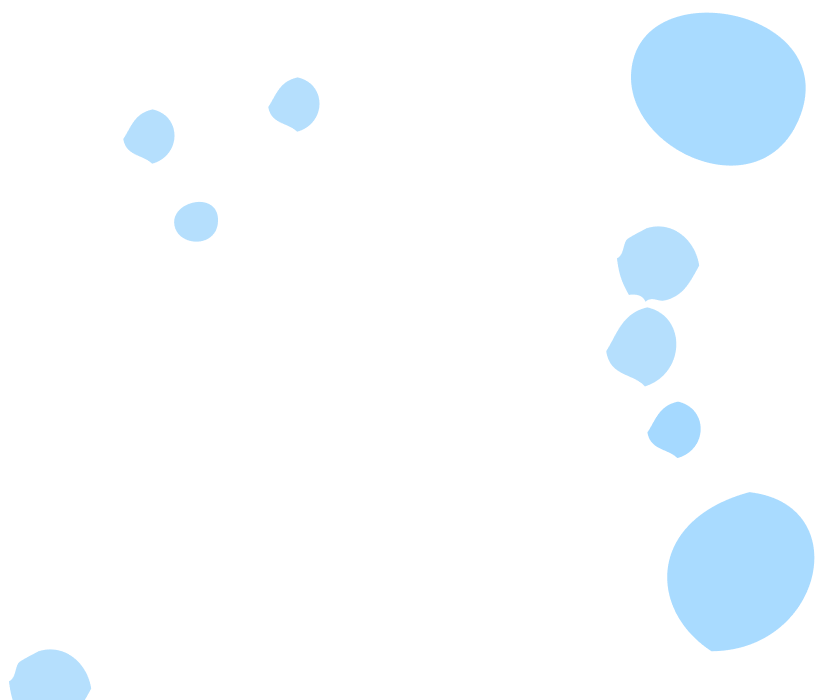
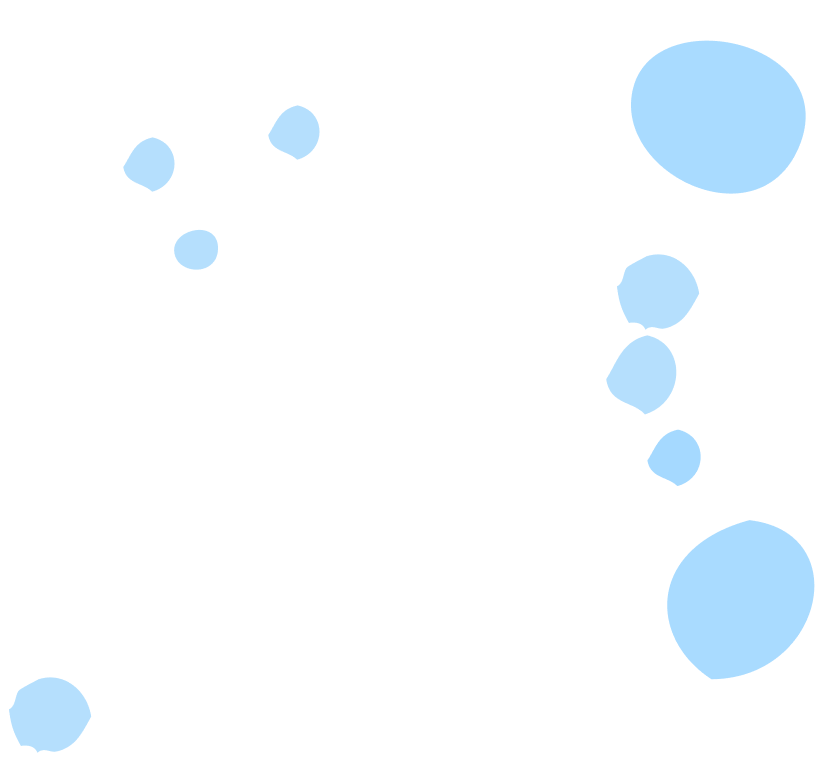
refactor: add full drops images

diff --git a/online-zoo/pages/landing/styles.css b/online-zoo/pages/landing/styles.css
@@ -180,12 +180,10 @@ html {
 }
 
 .background__drops-1 {
-  margin-right: 282.26px;
-  width: 834px;
-  height: 700px;
   z-index: 4;
   position: absolute;
-  right: 0;
+  right: 282px;
+  bottom: -37px;
 }
 
 .background__panda-0 {
@@ -198,12 +196,10 @@ html {
 }
 
 .background__drops-2 {
-  margin-left: 219.02px;
-  width: 1047px;
-  height: 700px;
   z-index: 2;
   position: absolute;
-  left: 0;
+  left: 219px;
+  bottom: -25px;
 }
 
 /* How it works ------------------------------------------------------------------------------------------------------------ */
